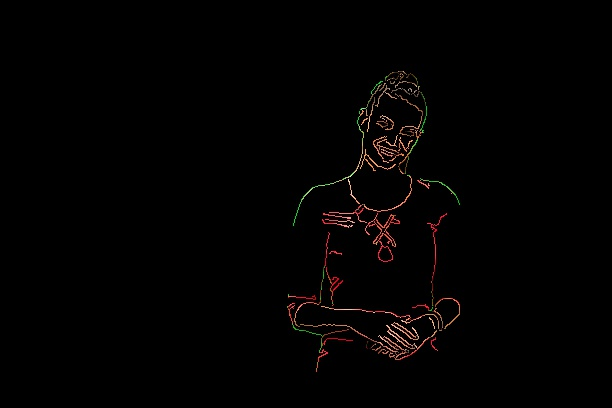
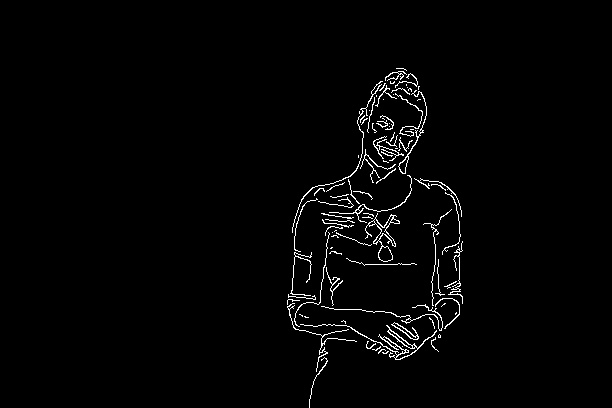
Ti = Ti - Ni * Ti

diff --git a/main.py b/main.py
@@ -1,5 +1,6 @@
 import cv2
 import Frame
+
 # load the image
 image = cv2.imread('src/demo.jpeg')
 # mask = Frame.LumaKeying(image, threshold0=120, threshold1=200, C=20)
@@ -14,6 +15,8 @@ hsv = cv2.cvtColor(image, cv2.COLOR_BGR2HSV)
 # 计算图像绿值的范围，则除了图像人物以外，其他均为白色255，图像人物为黑色0
 mask = cv2.inRange(hsv, (35, 43, 46), (77, 255, 255))
 
+
+
 # 对mask进行形态学操作
 k = cv2.getStructuringElement(cv2.MORPH_RECT, (3, 3), (-1, -1))
 # 返回指定形状和尺寸的核用于后面的形态学操作
@@ -25,5 +28,48 @@ mask = cv2.GaussianBlur(mask, (3, 3), 0, 0)
 # 高斯模糊
 # 将图像进行取反操作，则图像人物为白色255，其他为黑色0
 cv2.bitwise_not(mask, mask)
+
 cv2.imwrite('src/LumaKwying_4.jpeg', mask)
+
+# convert the image to grayscale
+gray_image = cv2.cvtColor(image, cv2.COLOR_BGR2GRAY)
+# apply Gaussian blur
+blurred_image = cv2.GaussianBlur(gray_image, (5, 5), 0)
+# use Canny edge detection to detect edges
+canny_edges = cv2.Canny(blurred_image, 20, 80)
+# apply binary threshold to create a mask
+_, mask = cv2.threshold(canny_edges, 0, 255, cv2.THRESH_BINARY + cv2.THRESH_OTSU)
+
+# extract the foreground object using the mask
+foreground = cv2.bitwise_and(image, image, mask=mask)
+
+# display the result
+cv2.imwrite('Foreground.jpeg', canny_edges)
+
+import cv2
+import numpy as np
+
+
+
+# 转换为灰度图像
+gray = cv2.cvtColor(image, cv2.COLOR_BGR2GRAY)
+gray = image
+
+# 高斯滤波器
+kernel_size = 3
+gaussian = cv2.GaussianBlur(gray, (kernel_size, kernel_size), 1)
+
+gaussian_down = cv2.pyrDown(gaussian)
+gaussian = cv2.pyrUp(gaussian_down)
+
+# Gedge操作
+gedge = cv2.subtract(gray, gaussian)
+
+# # 显示结果
+# cv2.imshow('Original', gray)
+# cv2.imshow('Gaussian', gaussian)
+cv2.imwrite('src/Gaussian.jpeg', gaussian)
+cv2.imwrite('src/Gray.jpeg', gray)
+cv2.imwrite('src/Gedge.jpeg', gedge)
+
 
